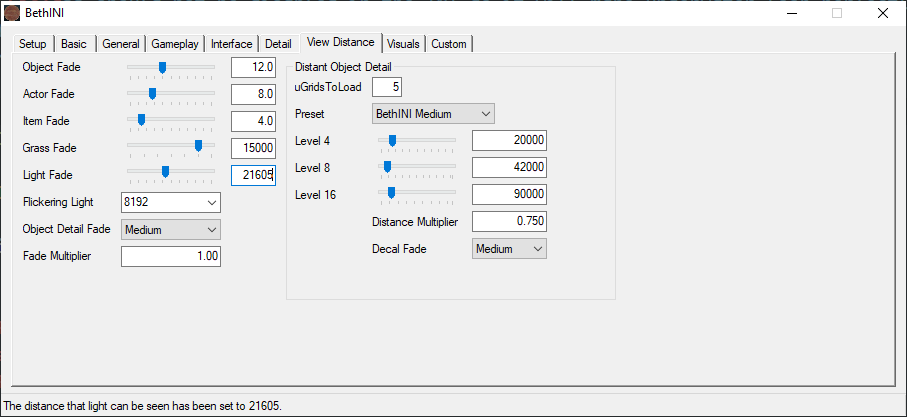
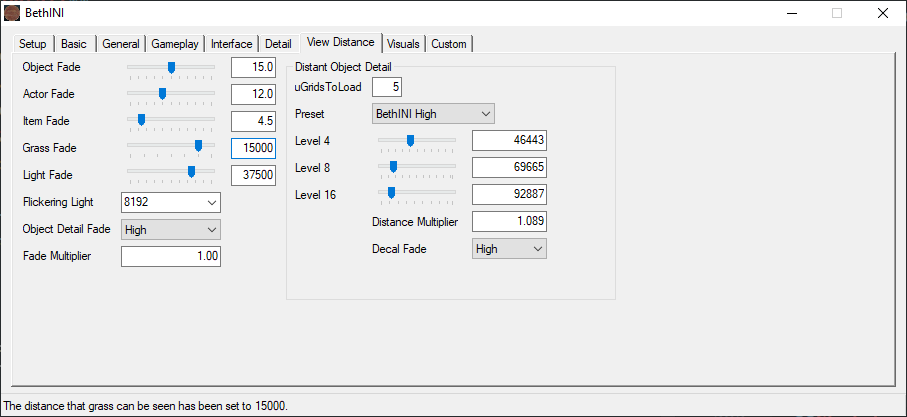
TPF 4.6 BethINI Hotfix

diff --git a/content/tpf/initial-setup/ini-files.md b/content/tpf/initial-setup/ini-files.md
@@ -45,8 +45,8 @@ Continue with regenerating the INI files from scratch:
 * Select **Skyrim Special Edition** from the drop-down menu.
 * Once BethINI has loaded up, go to the first tab, **Setup**.
 * All filepaths should be configured correctly out of the box, however it’s best to double-check:
-  * **Game Path** should point at your **root** folder, `steamapps\common\Skyrim Special Edition`.
-  * **Mod Organizer** should point at your MO2 folder, `{Your File Path}\Mod Organizer 2`.
+  * **Game Path** should point at your **root** folder, `\steamapps\common\Skyrim Special Edition\`.
+  * **Mod Organizer** should point at your MO2 folder, `{Your File Path}\Mod Organizer 2\`.
   * **INI Path** should point at your MO2 profile: `ModOrganizer 2 > The Phoenix Flavour`.
 
 > Changing the INI Path will prompt BethINI to restart. Click No when asked about using the skyrimcustom.ini file.
@@ -60,10 +60,10 @@ Continue with the second tab, **Basic**.
 - Set **Resolution** to the correct value for your monitor.
 - Make sure to check **Recommended Tweaks**.
 - **BethINI** presets should be toggled automatically.
-- Select the **Medium** preset.
+- Select the **High** preset.
 - Disable both **VSYNC** and **Lock Frame Rate**.
 
-> Vanilla VSYNC and frame lock are not optimal so both will be handled by mods later on. As for the selection of the **Medium** preset, I recommend it because it's a good balance between graphic fidelity and performance. Many of the settings can and will be changed to improve visuals but as a baseline, **Medium** is perfect.
+> VSYNC and frame cap will be enforced by a mod later on.
 
 ![BethINI Basic](/Pictures/tpf/initial-setup/bethini-basic.png)
 
@@ -83,20 +83,13 @@ Continue with the fifth tab, **Interface**.
 
 Continue with the sixth tab, **Detail**.
 
-- **Water:** Check `Reflect Objects`.
-- **Decal Quantity:** Set to `High`.
-- **Godrays**: Set to `High`.
-- **Field of View:** Increase this if you prefer a wider FoV.
 - **Particles:** Increase the particle count to `7500`.
 - **Lens Flare:** Matter of taste. Personally I disable this.
 - **Anamorphic Lens Flare:** Looks ugly, recommended to be turned off.
-- **Shadow Resolution:** Set to `2048` (unless you have a very slow CPU).
 - **Detailed Draw Distance:** Set to `3500`.
-- **Exterior Draw Distance:** Set to `8000`.
-- **Tree Shadows:** Check the box for this setting.
 - **Ambient Occlusion:** Uncheck the box for this setting (covered by ENB).
 
-> **Object LOD** reflections are broken in SSE, but the mod SSE Engine Fixes includes a fix. **Depth of Field** should not be disabled in the INI as it will make underwater look perfectly clear. By turning DOF all the way down in the ingame settings, you can disable it without breaking underwater visuals (if you dislike the DOF and/or want to use an ENB DOF effect instead).
+> **Depth of Field** should not be disabled in the INI as it will make underwater look perfectly clear. By turning DOF all the way down in the ingame settings, you can disable it without breaking underwater visuals (if you dislike the DOF and/or want to use an ENB DOF effect instead).
 
 ![BethINI Detail](/Pictures/tpf/initial-setup/bethini-detail.png)
 
@@ -104,11 +97,7 @@ Continue with the sixth tab, **Detail**.
 
 Continue with the seventh tab, **View Distance**.
 
-- **Object Fade:** Set to `12.0`.
-- **Actor Fade:** Set to `8.0`.
-- **Item Fade:** Set to `4.0`.
 - **Grass Fade:** Set to `15000`
-- **Light Fade:** Set to `21605`.
 
 ![BethINI View Distance](/Pictures/tpf/initial-setup/bethini-view-distance.png)
 
@@ -119,7 +108,6 @@ Continue with the eighth tab, **Visuals**.
 - Set **Contrast** to `-0.1800`. This should eliminate the "black crush" some people are experiencing in Skyrim SE.
 - Lower **Grass Density** to **20**.
 - Increase **Grass Diversity** to **15**.
-- Set **Tree Detail Fade** to **BethINI High**.
 
 ![BethINI Visuals](/Pictures/tpf/initial-setup/bethini-visuals.png)
 

diff --git a/content/tpf/appendix/changelog.md b/content/tpf/appendix/changelog.md
@@ -90,9 +90,7 @@ I finally decided to move all mods adding to music, including my merged plugin, 
 - **Creation Kit:** Fixed link to Betheda.net being localised (it would open the German version, oops).
 - **Mod Organizer 2:** Updated link and picture for MO2 2.4.2 (latest).
 - **Mod Organizer 2:** Added a new Splash Screen section.
-- **INI Files:** Updated BethINI - Detail instructions (increased Detail Draw Distance).
-- **INI Files:** Updated BethINI - View Distance (re-added tweak to grass fade).
-- **INI Files:** Updated BethINI - Visuals instructions (increased tree fade distance and tweaked grass settings).
+- **INI Files:** Updated almost all steps in the BethINI configuration (now based on the High preset).
 - **Additional Tools:** Updated instructions for CAO (reverted to 5.0.15).
 - **Additional Tools:** Removed instructions for Modwat.ch (no longer necessary with Load Order Library).
 
